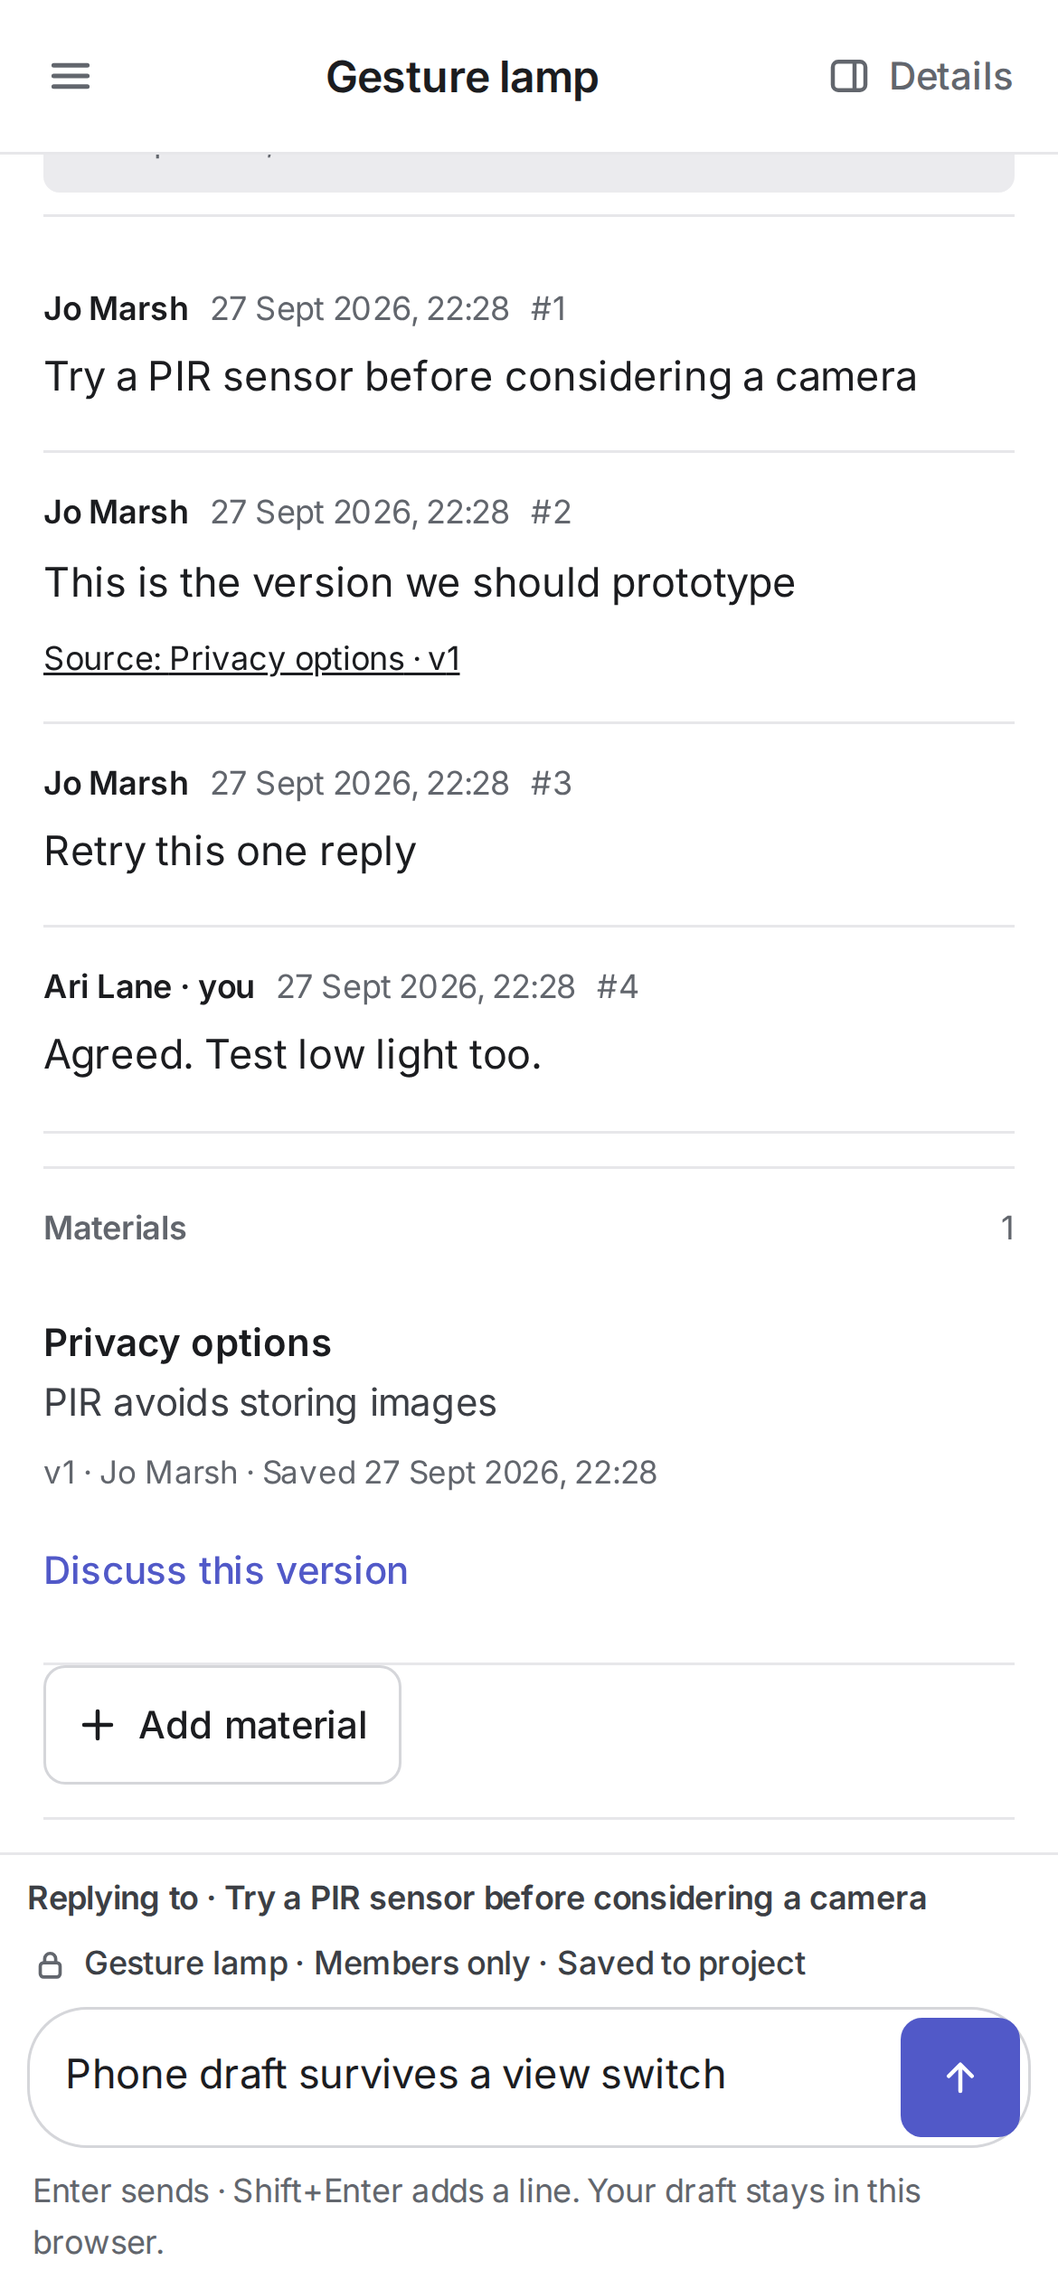
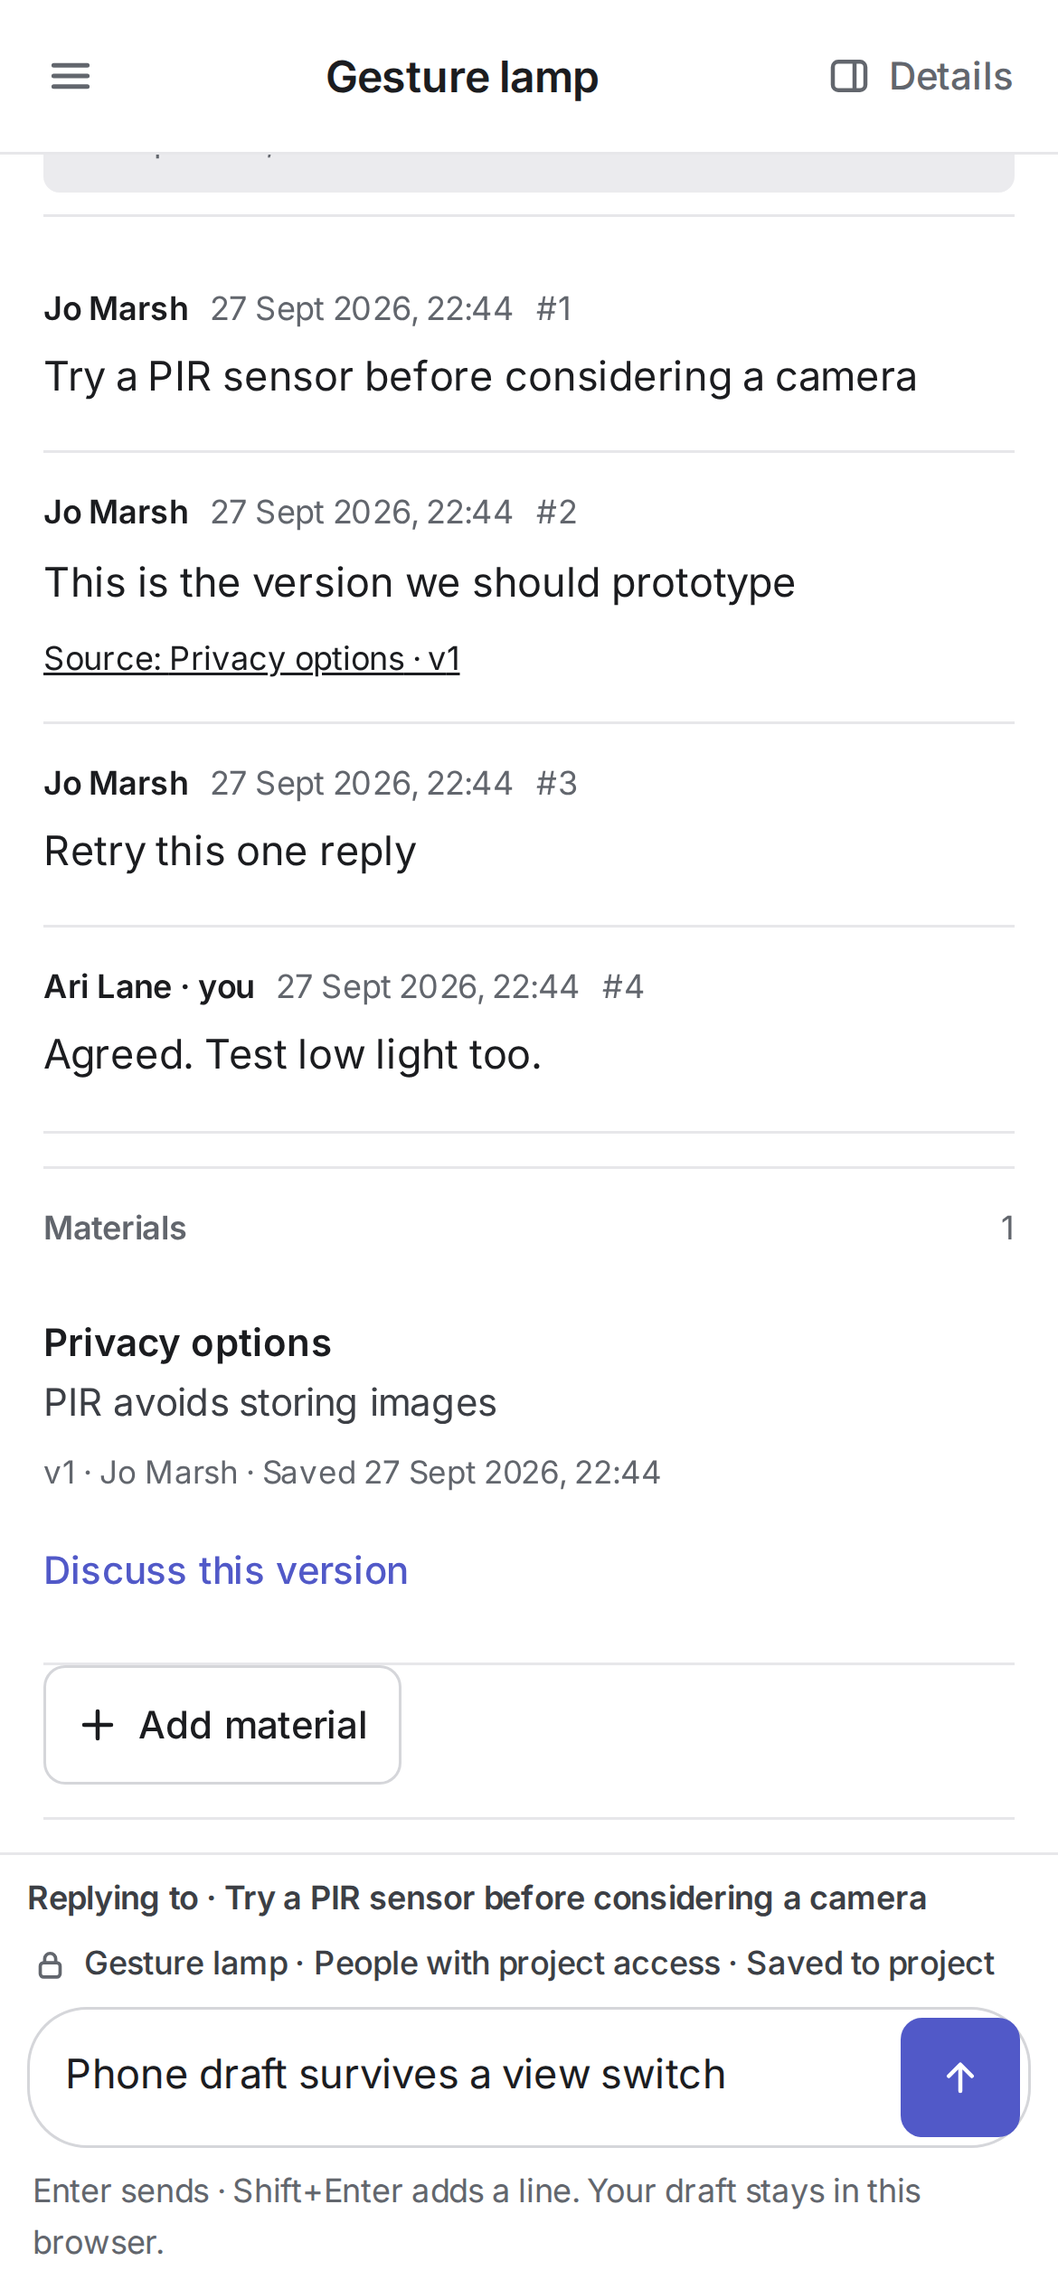
docs(web): name project audience and record #36 scope

diff --git a/apps/web/src/app/ProjectConversation.tsx b/apps/web/src/app/ProjectConversation.tsx
@@ -222,7 +222,7 @@ function ProjectConversationContent({ data }: { data: ProjectData }) {
   return <div className="project-convo" data-project-id={project.id}>
     <div className="project-convo__feed" ref={scrollRef}>
       <div className="project-convo__in">
-        <div className="project-convo__head"><div><p className="project-convo__eyebrow">{project.name} · {project.visibility === 'restricted' ? 'Members only' : 'Workspace members'}</p><h2>{conversation ? conversation.firstMessageBody.split('\n')[0] || 'Conversation' : 'New conversation'}</h2><p>Capture an idea or reply here. Everyone with access to this project can read it.</p></div></div>
+        <div className="project-convo__head"><div><p className="project-convo__eyebrow">{project.name} · People with project access</p><h2>{conversation ? conversation.firstMessageBody.split('\n')[0] || 'Conversation' : 'New conversation'}</h2><p>Capture an idea or reply here. Everyone with access to this project can read it.</p></div></div>
         <div className="project-convo__columns">
           <section aria-label="Conversations" className="project-convo__threads"><div className="project-convo__section-head"><h3>Threads</h3><span>{threadTotal}</span></div>
             <Link to={`/projects/${project.id}?new=1`} className={`project-convo__thread ${!conversation ? 'is-current' : ''}`}>New conversation</Link>
@@ -247,7 +247,7 @@ function ProjectConversationContent({ data }: { data: ProjectData }) {
     </div>
     <div className="composer project-convo__composer"><div className="composer__in">
       {conversation ? <p className="project-convo__current-thread" title={conversation.firstMessageBody.split('\n')[0]}>Replying to · {conversation.firstMessageBody.split('\n')[0] || 'Conversation'}</p> : null}
-      <p className="composer__audience"><Icon name="lock" size={13} />{project.name} · {project.visibility === 'restricted' ? 'Members only' : 'Workspace members'} · Saved to project</p>
+      <p className="composer__audience"><Icon name="lock" size={13} />{project.name} · People with project access · Saved to project</p>
       {citation ? <div className="project-convo__citation">Discussing “{citation.title}” v{citation.version}<button type="button" disabled={busy} onClick={() => { setCitation(null); setPending(null); setError(''); }} aria-label="Remove material citation">×</button></div> : null}
       <div className="composer__box"><label className="ui-vh" htmlFor="project-composer">{conversation ? 'Reply' : 'Start a conversation'}</label><textarea id="project-composer" value={draft} onChange={(event) => changeDraft(event.target.value)} onKeyDown={onComposerKey} disabled={!writable || busy} placeholder={conversation ? 'Reply…' : 'Share a thought…'} rows={1} /><button className="composer__send" aria-label={conversation ? 'Send reply' : 'Start conversation'} aria-disabled={!draft.trim() || !writable || busy} type="button" onClick={() => void send()}><Icon name="send" /></button></div>
       {readFailure ? <p className="project-convo__error" role="alert">{readFailure.message} <button type="button" onClick={readFailure.retry}>Retry read</button></p> : null}

diff --git a/docs/product/foundation-coverage.md b/docs/product/foundation-coverage.md
@@ -1,31 +1,31 @@
 # Full-product coverage and evidence ledger
 
-**Revision:** 2026-09-27, live ledger after merged [#16](https://github.com/ColdPhase/flux/issues/16) and [#38](https://github.com/ColdPhase/flux/issues/38), reconciled with `main` at `077db1448f4c5957232e036ce0555239a6857570`. Each implementation PR owner updates its rows and its independent evaluator checks them. This ledger maps the sixteen areas and eight pillars in the [founder foundation §§7–8](FLUX-FOUNDATION.md#7-filary-produktu). The [application specification](application-specification.md) states the shared journey, sequencing and accepted O-004 release boundary. [MOB-1–MOB-7](mobile-pwa.md#required-outcomes) also gate the full product.
+**Revision:** 2026-09-27, #36 candidate at `ed00e8d` against protected `main` at `89ca29c`; no #36 behavior is merged or accepted yet. Each implementation PR owner updates its rows and its independent evaluator checks them. This ledger maps the sixteen areas and eight pillars in the [founder foundation §§7–8](FLUX-FOUNDATION.md#7-filary-produktu). The [application specification](application-specification.md) states the shared journey, sequencing and accepted O-004 release boundary. [MOB-1–MOB-7](mobile-pwa.md#required-outcomes) also gate the full product.
 
 ## Evidence rule
 
 `gap` means no bounded application contract currently covers the behavior. `planned` means an assigned issue contains a candidate or accepted contract for at least part of the behavior; it **does not** mean code exists or all work in the row is scheduled. `implemented` requires merged behavior, a resolving issue and reproducible checks at a named commit. `verified` requires criterion-specific independent evidence at the tested commit. A planning PR, merged research, screenshot, passing harness check or label cannot raise an application row to `implemented` or `verified`.
 
-At this revision protected `main` includes the merged [#28 / PR #34 application foundation](https://github.com/ColdPhase/flux/pull/34): a Compose browser/API/worker/PostgreSQL skeleton, migrations, a persistence fixture and focused checks. It does not yet deliver a complete user journey, device test or release artifact. Therefore no **product area or pillar** row is implemented or verified. [#29](https://github.com/ColdPhase/flux/issues/29) has its human identity/session AC-1 slice merged via [PR #39](https://github.com/ColdPhase/flux/pull/39), while its workspace/project grants and revocation slices remain open. [#20](https://github.com/ColdPhase/flux/issues/20) has an accepted mobile contract without merged device behavior. [#14 / PR #24](https://github.com/ColdPhase/flux/pull/24) is an accepted **journey document**, and [#13 / PR #25](https://github.com/ColdPhase/flux/pull/25) is an accepted **architecture decision**; neither proves application behavior. [#15 / PR #33](https://github.com/ColdPhase/flux/pull/33) is still comparing the visual direction against the founder's `flux-ux-v8.html` reference.
+At this revision protected `main` includes [#28 / PR #34](https://github.com/ColdPhase/flux/pull/34) and the merged [#29 event/policy slice in PR #47](https://github.com/ColdPhase/flux/pull/47), alongside other foundation work. It does not yet deliver a complete user journey, device test or release artifact. Therefore no **product area or pillar** row is implemented or verified. [#36](https://github.com/ColdPhase/flux/issues/36) has an unmerged two-person project capture and conversation candidate with Docker evidence at the cited head; its final integrated UI review is pending. [#20](https://github.com/ColdPhase/flux/issues/20) has an accepted mobile contract without merged device behavior. [#14 / PR #24](https://github.com/ColdPhase/flux/pull/24) is an accepted **journey document**, and [#13 / PR #25](https://github.com/ColdPhase/flux/pull/25) is an accepted **architecture decision**; neither proves application behavior. [#15 / PR #33](https://github.com/ColdPhase/flux/pull/33) still awaits its accepted design record.
 
 ## Foundation area coverage (AC-2)
 
 | Area | Intended observable behavior | Dependencies and current work | Verification scenario | State and remaining work |
 | --- | --- | --- | --- | --- |
-| **8.1 Team space and projects** | A person starts with a workspace, creates or joins a project, sees people/current work, and knows the audience before moving a capture. | Identity, grants and durable project objects; [#29](https://github.com/ColdPhase/flux/issues/29) has an accepted membership/policy contract on merged [#28](https://github.com/ColdPhase/flux/issues/28). | Two accounts, two workspaces and a restricted project: create, invite, move a private draft and verify no audience broadening. | **planned** — login/session behavior is merged, while workspace/project policy and real project UI remain; no complete journey proof. |
-| **8.2 Captures and ideas** | Save text/link/image with few steps on desktop/phone, keep a recoverable private draft, then explicitly publish to an audience. | #29 draft policy, files and PWA recovery [#20](https://github.com/ColdPhase/flux/issues/20); [#14](journeys-and-vocabulary.md) supplies M-1 scenario. | Save offline draft, reconnect, publish once, reload on another device and verify attachment access. | **gap** — create bounded capture/file contract and tests. |
-| **8.3 Human conversations** | People exchange ordered replies around a project or exact object and can reach the cited source; ordinary team chat works without AI. | Identity/project policy, durable stream, notifications; C-1 in [#14](journeys-and-vocabulary.md). | Two users reply concurrently, reconnect, follow a permitted source and deny a private quotation leak. | **gap** — messenger/reply contract, stream replay and UI. |
+| **8.1 Team space and projects** | A person starts with a workspace, creates or joins a project, sees people/current work, and knows the audience before moving a capture. | [#29](https://github.com/ColdPhase/flux/issues/29) supplies merged membership and project policy slices; [#36](https://github.com/ColdPhase/flux/issues/36) has an unmerged first project UI. | Two accounts, two workspaces and a restricted project: create, invite, move a private draft and verify no audience broadening. | **planned** — #36 candidate creates and opens a restricted project, but invitation UI, work context and complete move journey remain. |
+| **8.2 Captures and ideas** | Save text/link/image with few steps on desktop/phone, keep a recoverable private draft, then explicitly publish to an audience. | [#36](https://github.com/ColdPhase/flux/issues/36) covers direct project text/link and private draft → selected redacted material; files and PWA recovery [#20](https://github.com/ColdPhase/flux/issues/20) remain separate. | Save offline draft, reconnect, publish once, reload on another device and verify attachment access. | **planned** — unmerged #36 candidate has two-account Compose/UI evidence recorded in its issue; image/file capture, offline recovery and final peer acceptance remain. |
+| **8.3 Human conversations** | People exchange ordered replies around a project or exact object and can reach the cited source; ordinary team chat works without AI. | [#36](https://github.com/ColdPhase/flux/issues/36) supplies an unmerged project reply/version-link UI on #29 policy and stream; C-1 in [#14](journeys-and-vocabulary.md) remains wider. | Two users reply concurrently, reconnect, follow a permitted source and deny a private quotation leak. | **planned** — #36 candidate has ordered reply, retry, citation, replay and revocation checks recorded in its issue; DM, broader object links and final peer acceptance remain. |
 | **8.4 Maps and spatial thinking** | Users arrange meaningful object relations, open live conversation/decision/work from a map, and reach the same objects via keyboard/list. Position alone creates no execution dependency. | Shared object IDs, semantic links, accessible UI direction [#15](https://github.com/ColdPhase/flux/issues/15). | Rearrange map, refresh, follow links on desktop/touch and use the alternate route with keyboard/screen reader. | **gap** — map/relationship task and interaction proof. |
 | **8.5 Work and results** | A work item records owner, inputs, blocker, target outcome and inspectable positive or negative result; human/agent handoff preserves next action. | Decisions, material versions and grants; W-1/R-1/H-1 in [#14](journeys-and-vocabulary.md). | Attach partial result, leave work open, hand to another user, then resume with AI disabled. | **gap** — work/result/handoff implementation task. |
 | **8.6 Decisions and direction change** | Proposed, accepted and superseded choices remain distinct; current choice, rationale, actor, sources and affected work are visible. | Identity/delegation, version history, links; D-1/D-2 in [#14](journeys-and-vocabulary.md). | One authorized person supersedes another's decision during absence; reject unauthorized or expired delegation. | **gap** — decision lifecycle and delegation contract. |
-| **8.7 Knowledge and artifacts** | A material retains source, version, author, audience and relation to work; a historical citation still refers to the old version. | File storage, content policy, object versions; merged #28 provides a file volume, not the user feature. | Revise a document, inspect old cited version, find it from a result and deny an unauthorized file preview. | **gap** — material/file/version tasks and preview proof. |
+| **8.7 Knowledge and artifacts** | A material retains source, version, author, audience and relation to work; a historical citation still refers to the old version. | [#36](https://github.com/ColdPhase/flux/issues/36) covers an unmerged text/link material with immutable versions and optional private-draft provenance; file storage and work relations remain. | Revise a document, inspect old cited version, find it from a result and deny an unauthorized file preview. | **planned** — #36 candidate has historical citation/version and denied-link checks recorded in its issue; files, result relations and final peer acceptance remain. |
 | **8.8 Return and takeover** | A returning member sees their saved point, relevant changes, current choice, source and a useful next step; absent explanations are explicit. | Durable events, decision/work/handoff links, recipient policy; [#14](journeys-and-vocabulary.md) defines Jo's return. | Jo leaves while Ari/Nia change the project, then reconstructs D-2/R-1/W-1 without a verbal recap. | **gap** — return view and change selection task plus comparative user test. |
 | **8.9 Attention and notifications** | Inbox and user controls show why an event matters; relevant push opens an authorized item without duplicate or private lock-screen content. | Events, preferences, access and PWA [#20](https://github.com/ColdPhase/flux/issues/20). | Mention/assignment/decision/agent result, mute and quiet period; revoke access before send/open. | **planned** — #20 covers Web Push, while inbox/preferences still need a bounded task. |
 | **8.10 Agent collaboration** | Named agent with scoped grant and visible run state works on an actual item; proposed result, sources and human continuation survive interruption. | #29 policy, durable jobs, O-005 supported path; [#9](own-ai-feasibility.md) is research. | Run a permitted task, exhaust/stop it, resume as a human and reject stale or revoked result. | **gap** — choose supported path and implement run/recovery. |
 | **8.11 Proactive AI** | User can authorize bounded event triggers, see why an agent started, cap cost, pause the rule and separate analysis/proposal/execution powers. | 8.10 run/grant, event stream, notification limits. | Trigger once from a real event, prevent loops/duplicate billing, revoke before next run. | **gap** — scoped automation task and cost evidence. |
 | **8.12 Search and context navigation** | Find current material/decision/result with source/version links; access filtering precedes counts, snippets and graph relations. | Persisted content, policy and index/replay consistency. | Search as two users across private/group/project scopes; revoke membership and confirm no title, count or snippet leak. | **gap** — search/navigation contract and security tests. |
 | **8.13 Integrations and extensions** | A versioned external contract permits a useful integration with provenance, scoped grants, safe retry and visible repair after failure. | O-002 public boundary, #29 policy, stable object commands and O-005 where AI-facing. | External client creates/retries a linked object, encounters a conflict, revokes access and recovers without duplicate effect. | **gap** — public SDK/MCP/example and compatibility tests. |
-| **8.14 Real-time collaboration** | Two people and an agent see attributed changes; reconnect replays durable events, protects drafts and reports version conflicts without silent overwrite. | #28 event/outbox seam, #29 policy, versioned domain commands. | Two clients edit the same record, disconnect one, change permissions, reconnect and inspect order/conflict. | **gap** — stream and conflict task; #28 is only infrastructure. |
+| **8.14 Real-time collaboration** | Two people and an agent see attributed changes; reconnect replays durable events, protects drafts and reports version conflicts without silent overwrite. | Merged #29 recipient-scoped stream and unmerged [#36](https://github.com/ColdPhase/flux/issues/36) project refresh events supply part of the seam. | Two clients edit the same record, disconnect one, change permissions, reconnect and inspect order/conflict. | **planned** — #36 candidate has project event/replay/revocation checks recorded in its issue; UI still polls and agent collaboration, conflict UI and final acceptance remain. |
 | **8.15 Access and administration** | Persist identities, members, roles, guests and agent grants; admins can explain and revoke who sees each object, including active automation. | [#29](https://github.com/ColdPhase/flux/issues/29) has an accepted contract and depends on #28. | Two tenants, restricted material, old stream/deep link, queued job and result commit after revocation. | **planned** — #29 AC-1 sessions are merged; membership, object policy, revocation and proof remain; enterprise SSO/SCIM needs an explicit later scope decision. |
 | **8.16 Self-hosting and maintenance** | Operator can install, diagnose, upgrade, back up, restore and export a real instance with content, files, relations and permissions intact. | [#28](https://github.com/ColdPhase/flux/issues/28) skeleton; [#38 / PR #43](https://github.com/ColdPhase/flux/pull/43) hardens the runtime image and fixture; [#20](https://github.com/ColdPhase/flux/issues/20) covers HTTPS/push; final operations tasks remain. | Clean Compose start, migrate/update, restore from DB+files, export/import sample and test mobile push through self-hosted HTTPS. | **planned** — #38 start/migration/restart and runtime hardening merged at `077db14` after [independent Docker review](https://github.com/ColdPhase/flux/pull/43#pullrequestreview-5331338353); real restore/export/update and release proof remain. |
 

diff --git a/docs/development/conversations.md b/docs/development/conversations.md
@@ -1,7 +1,8 @@
 # Project capture and conversation backend (#36)
 
 The current slice stores project conversations, direct text replies and versioned
-project materials. A signed-in member can send from the current project without
+project materials. A signed-in person with contributor access can send from the
+current project without
 creating a draft. `POST /api/v1/projects/:projectId/conversations` starts a thread
 with its first message; `POST /api/v1/conversations/:id/messages` replies in it.
 Both take `{ "body": "…", "clientMessageId": "<UUID>" }` and may cite
@@ -29,8 +30,8 @@ the authorized project. `GET /api/v1/conversations/:id` returns the newest 50
 messages by default, in ascending display order. `?limit=1..100` changes the
 window size; `?beforeSequence=<positive integer>` fetches the next older window.
 Use `messagePage.nextBeforeSequence` while `hasMoreBefore` is true. Sequence
-cursors stay stable as new replies arrive. Server events, DM and many-to-many
-links remain outside this backend slice.
+cursors stay stable as new replies arrive. Authorized project refresh events are
+described below. DM and many-to-many links remain outside this slice.
 
 Clean start and verification use Docker only:
 
